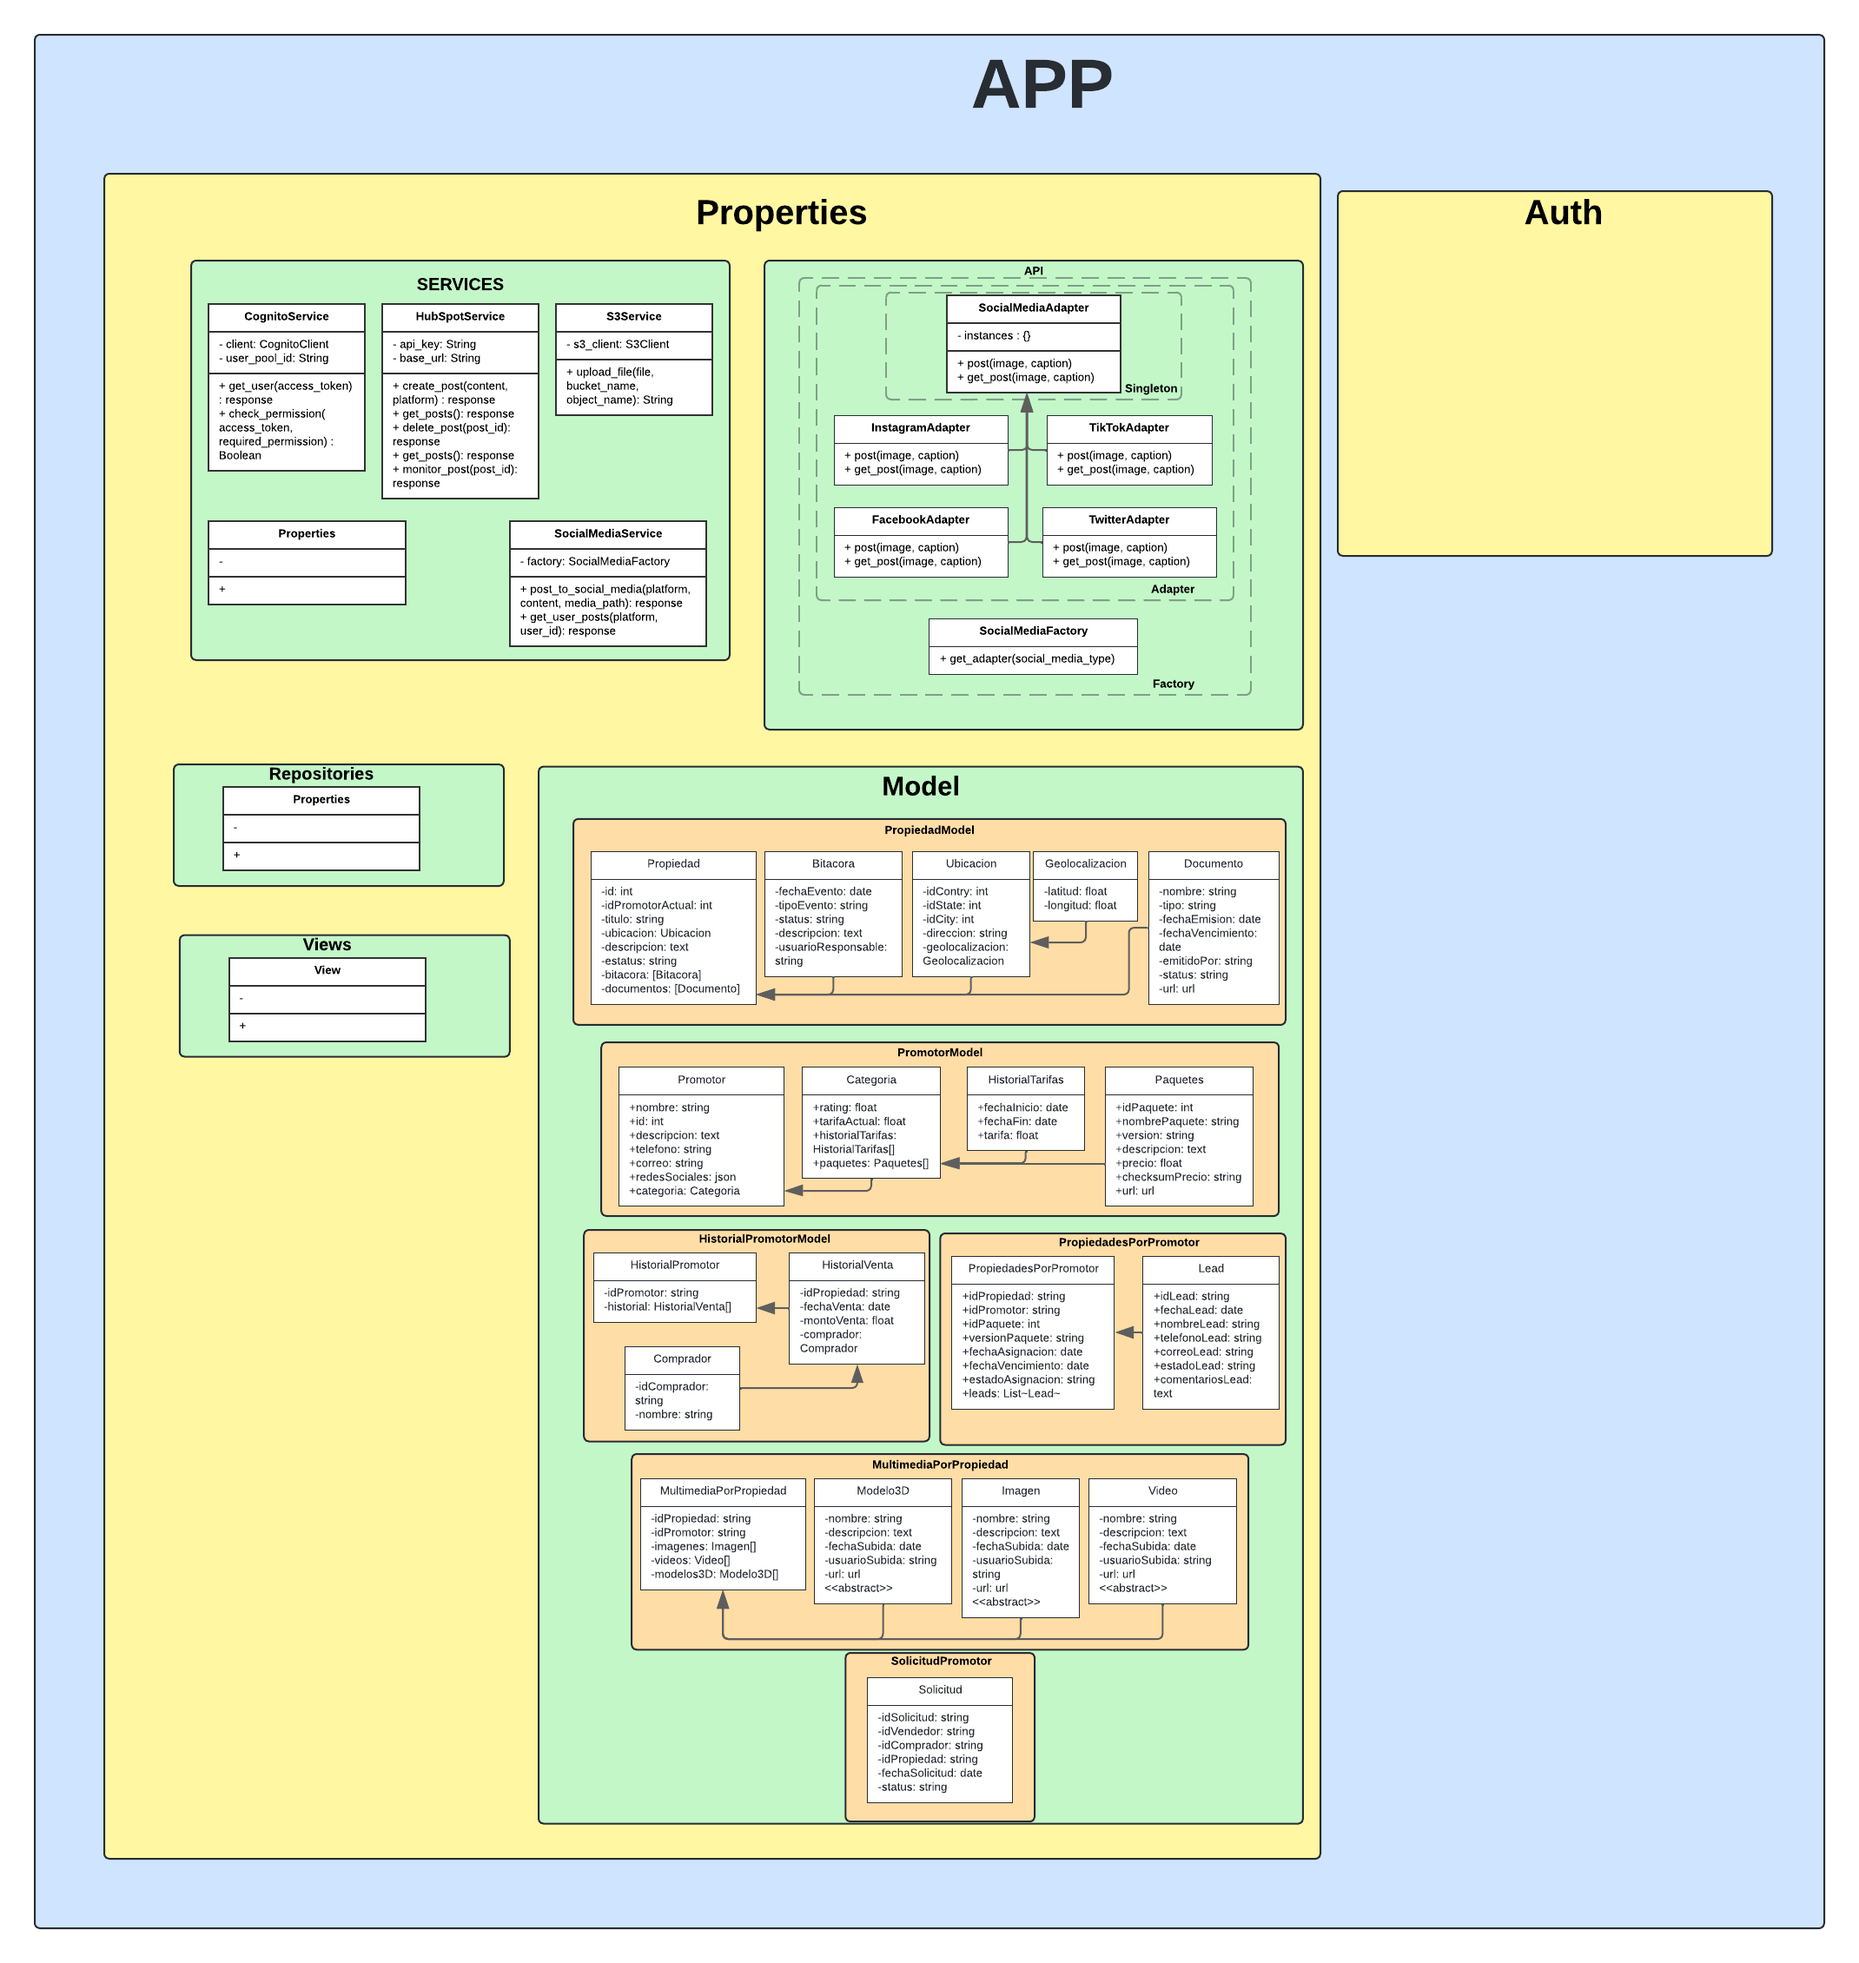
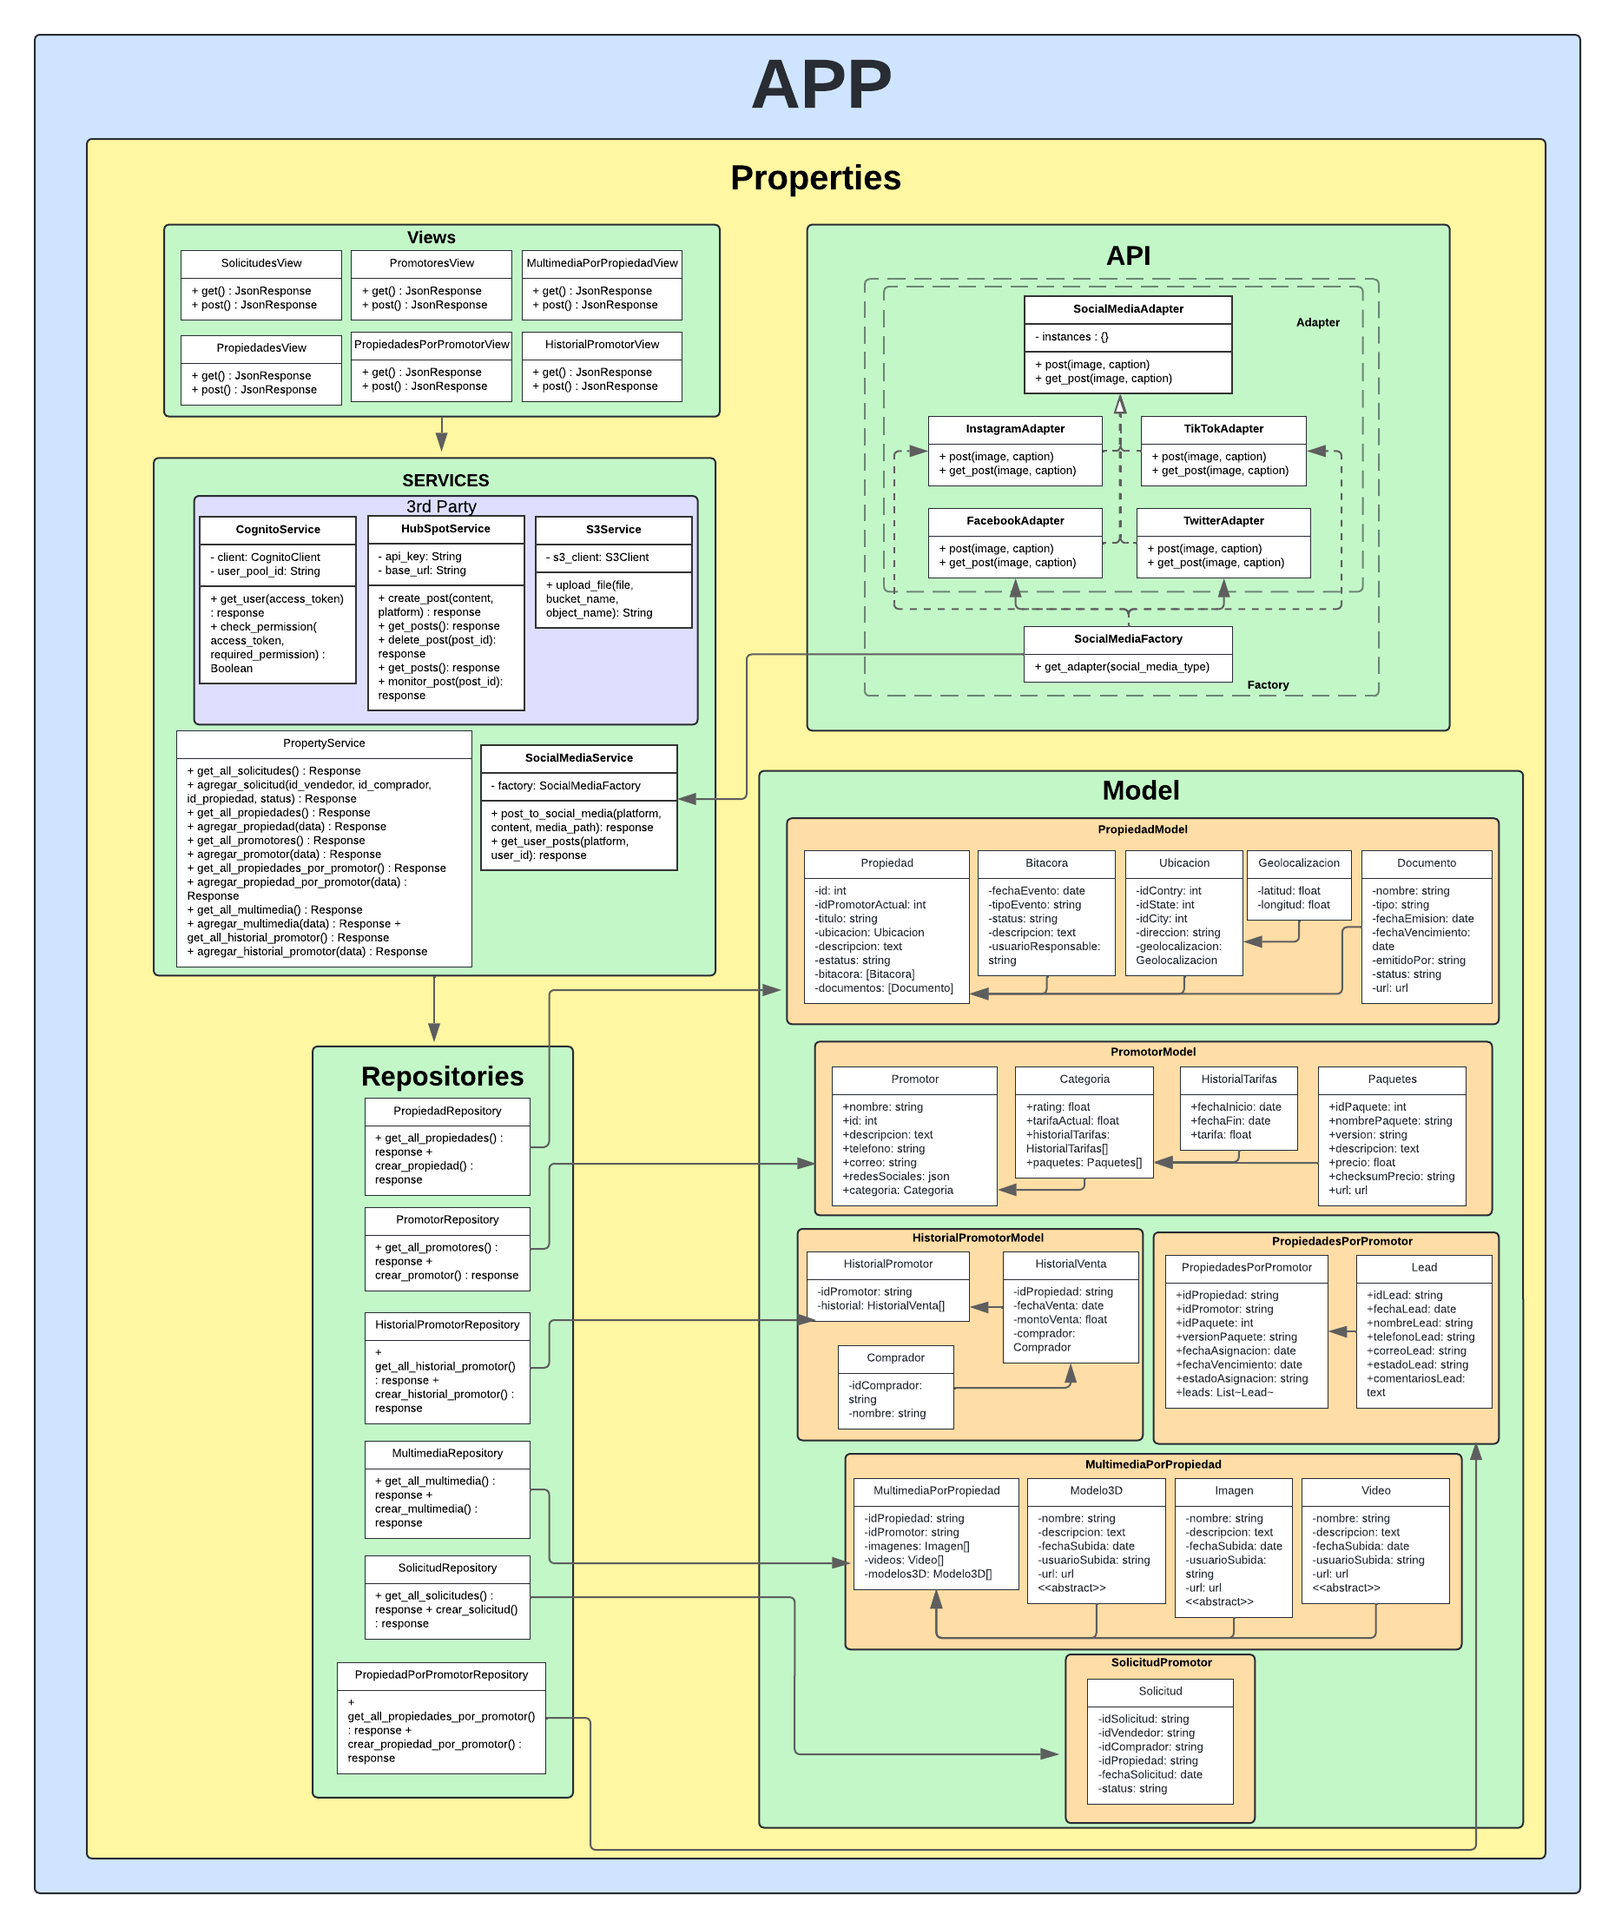
actualización del readme

diff --git a/placeWise/PlaceWiseBE/README.md b/placeWise/PlaceWiseBE/README.md
@@ -3,9 +3,6 @@
 Estructura básica: https://github.com/vintasoftware/django-react-boilerplate/tree/main/backend
 s3: https://github.com/etianen/django-s3-storage/tree/master
 
-## Diagrama 
-![alt text](<../../imagenes/DiagramaBE.png>)
-
 ## Estructura de Carpetas
 
 - **app**: Contiene las aplicaciones de Django.
@@ -48,7 +45,12 @@ PlaceWiseBE/
 │       │   ├── SolicitudesPromotor.py
 │       │   └── __init__.py
 │       ├── repositories/
-│       │   └── property_repository.py
+│       │   ├── historial_promotor_repository.py
+│       │   ├── multimedia_repository.py
+│       │   ├── promotor_repository.py
+│       │   ├── property_repository.py
+│       │   ├── propiedad_promotor_repository.py
+│       │   └── solicitud_repository.py
 │       ├── services/
 │       │   ├── cognito_service.py
 │       │   ├── hubspot_service.py
@@ -57,28 +59,21 @@ PlaceWiseBE/
 │       │   └── social_media_service.py
 │       ├── users/
 │       │   └── admin.py
-│       ├── __pycache__/
-│       │   ├── services.cpython-312.pyc
-│       │   ├── urls.cpython-312.pyc
-│       │   ├── views.cpython-312.pyc
-│       │   └── __init__.cpython-312.pyc
+│       ├── views/
+│       │   ├── historialPromotorView.py
+│       │   ├── multimediaPorPropiedadView.py
+│       │   ├── promotoresView.py
+│       │   ├── propiedadesPorPromotorView.py
+│       │   ├── propiedadesView.py
+│       │   └── solicitudesView.py
 │       ├── apps.py
 │       ├── serializers.py
 │       ├── tests.py
 │       ├── urls.py
-│       ├── views.py
 │       └── __init__.py
 ├── mongo-init-scripts/
-│   ├── Costa_Rica_Real_Estate_Dataset.csv
 │   └── init-mongo.js
 ├── placeWise/
-│   ├── __pycache__/
-│   │   ├── settings.cpython-310.pyc
-│   │   ├── settings.cpython-312.pyc
-│   │   ├── urls.cpython-312.pyc
-│   │   ├── wsgi.cpython-312.pyc
-│   │   ├── __init__.cpython-310.pyc
-│   │   └── __init__.cpython-312.pyc
 │   ├── asgi.py
 │   ├── settings.py
 │   ├── urls.py
@@ -112,6 +107,11 @@ Aplicación principal de la API REST.
   - **migrations/**: Migraciones de la base de datos.
   - **repositories/**:
     - **property_repository.py**: Repositorio de la aplicación.
+    - **promotor_repository.py**: Repositorio de Promotor.
+    - **historial_promotor_repository.py**: Repositorio de Historial de Promotor.
+    - **multimedia_repository.py**: Repositorio de Multimedia.
+    - **propiedad_promotor_repository.py**: Repositorio de Propiedades por Promotor.
+    - **solicitud_repository.py**: Repositorio de Solicitudes.
   - **models/**:
     - **HistorialPromotor.py**: Modelo de Historial de Promotor.
     - **MultimediaPorPropiedad.py**: Modelo de Multimedia por Propiedad.
@@ -134,6 +134,13 @@ Aplicación principal de la API REST.
     - **cognito_service.py**: Servicio de Cognito para autenticación de usuarios.
   - **users/**:
     - **admin.py**: Configuración del administrador de usuarios.
+  - **views/**:
+    - **historialPromotorView.py**: Vista de Historial de Promotor.
+    - **multimediaPorPropiedadView.py**: Vista de Multimedia por Propiedad.
+    - **promotoresView.py**: Vista de Promotores.
+    - **propiedadesPorPromotorView.py**: Vista de Propiedades por Promotor.
+    - **propiedadesView.py**: Vista de Propiedades.
+    - **solicitudesView.py**: Vista de Solicitudes.
   - **apps.py**: Configuración de la aplicación.
   - **models.py**: Modelos de la aplicación.
   - **serializers.py**: Serializadores de la aplicación.

diff --git a/README.md b/README.md
@@ -414,3 +414,21 @@ Modelado de las collection con Djongo (ORM): https://github.com/JoseA27/PlaceWis
 ### Link del Script de inicialización para la base de datos:
 
 https://github.com/JoseA27/PlaceWise/tree/main/placeWise/PlaceWiseBE/mongo-init-scripts
+
+## Diseño del backend 
+
+### Diagrama de Clases y Capas
+![alt text](imagenes/DiagramaBE.png)
+
+### Descripción de Capas
+
+1. **Capa de Views (Controllers)**: Esta capa se encarga de recibir las peticiones HTTP, procesarlas y enviar una respuesta adecuada. Los controladores interactúan con los servicios para realizar operaciones de negocio y devolver los resultados a los clientes.
+2. **Capa de Services**: En esta capa se encuentran los servicios que contienen la lógica de negocio de la aplicación. Los servicios se encargan de procesar las solicitudes de los controladores, interactuar con la capa de acceso a datos y devolver los resultados.
+   
+   + **3rd Party Services**: En esta capa se encuentran los servicios de terceros que se utilizan para integraciones con APIs externas, como Google Maps, AWS S3, etc.  
+3. **Capa de Repositories**: Los repositorios son responsables de interactuar con la base de datos y realizar operaciones de lectura y escritura. Los repositorios se comunican con la capa de servicios para obtener y almacenar datos.
+4. **Capa de Models**: En esta capa se encuentran los modelos de datos que representan las entidades de la aplicación. Los modelos definen la estructura de los datos y las relaciones entre ellos.
+5. **Capa API**: La capa API define las API externas de la aplicación que permite a srvice de terceros interactuar con la aplicación. La capa API se comunica con los controladores para procesar las solicitudes y enviar las respuestas.
+   
+### Boilerplate
+Link al README del boilerplate de BE: https://github.com/JoseA27/PlaceWise/tree/main/placeWise/PlaceWiseBE
